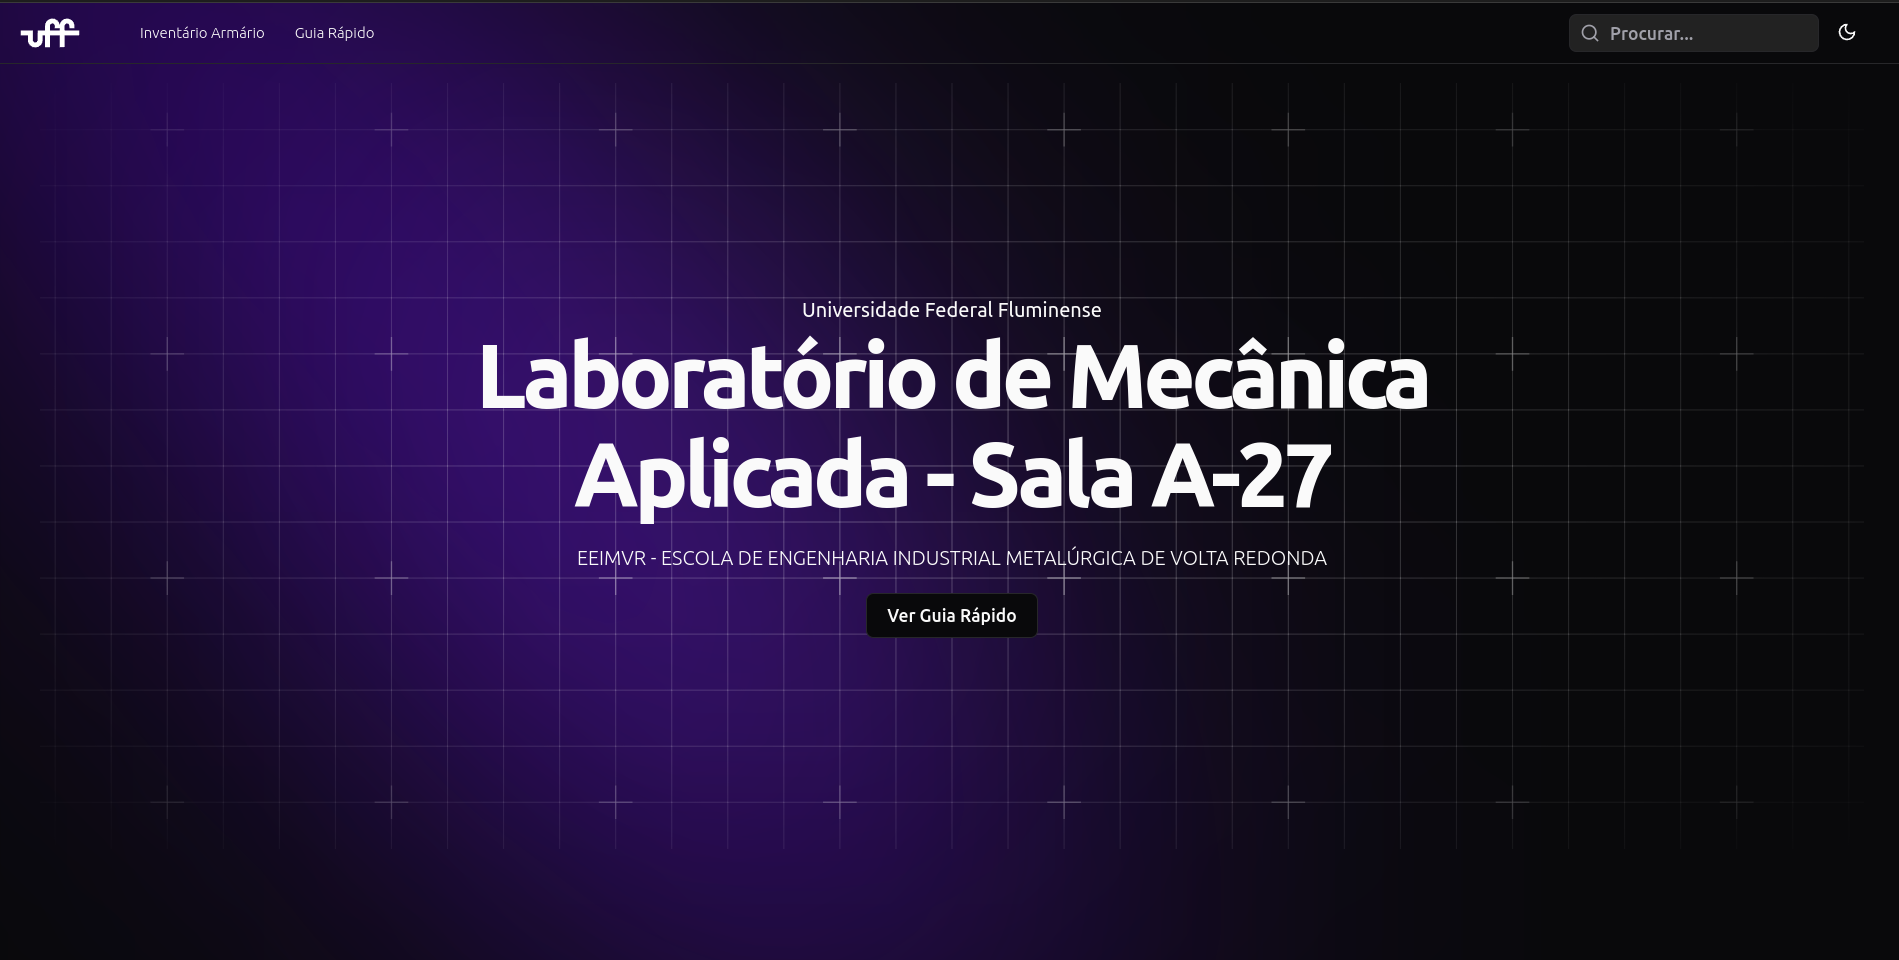
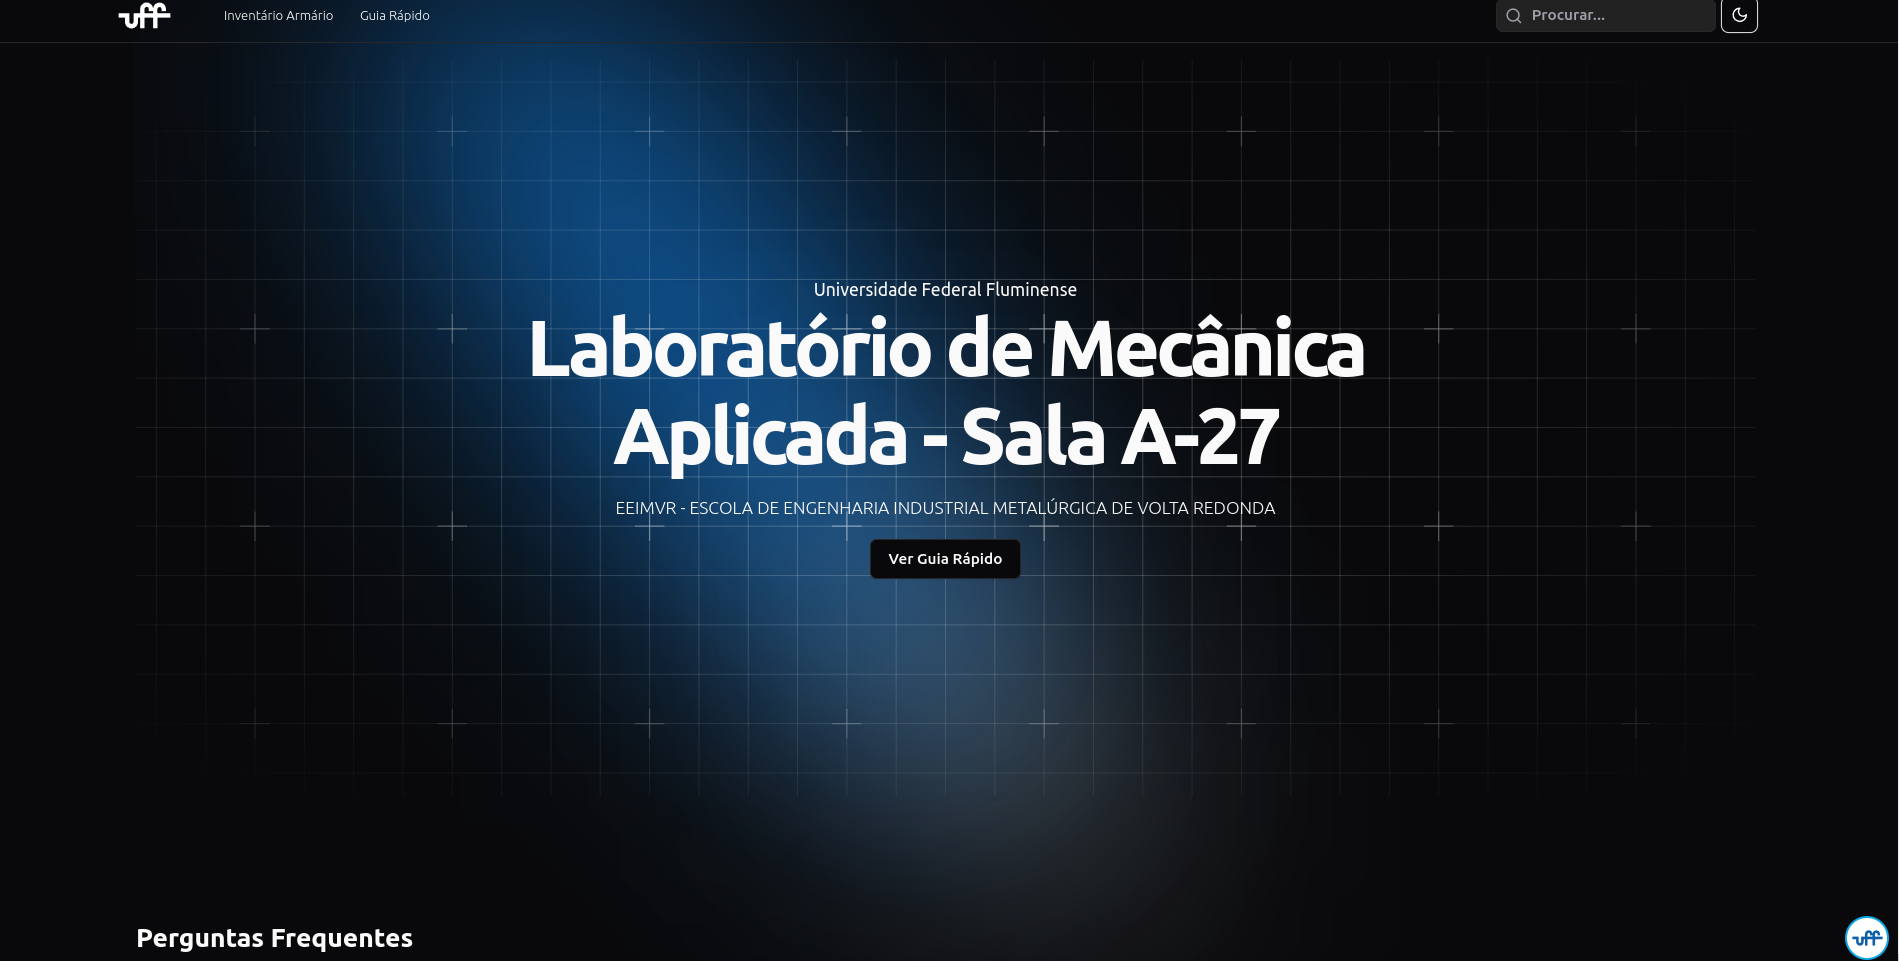
docs: adding image to README.md

diff --git a/README.md b/README.md
@@ -16,6 +16,8 @@ Para acessar click no <a href="https://lab-eng-mec.vercel.app/">link</a>
 
 <img src='./src/assets/site-lab.png' />
 
+<img src='./src/assets/site-lab-mobile.png' />
+
 - Guia Rápido
 
 <img src='./src/assets/posts.png' />
